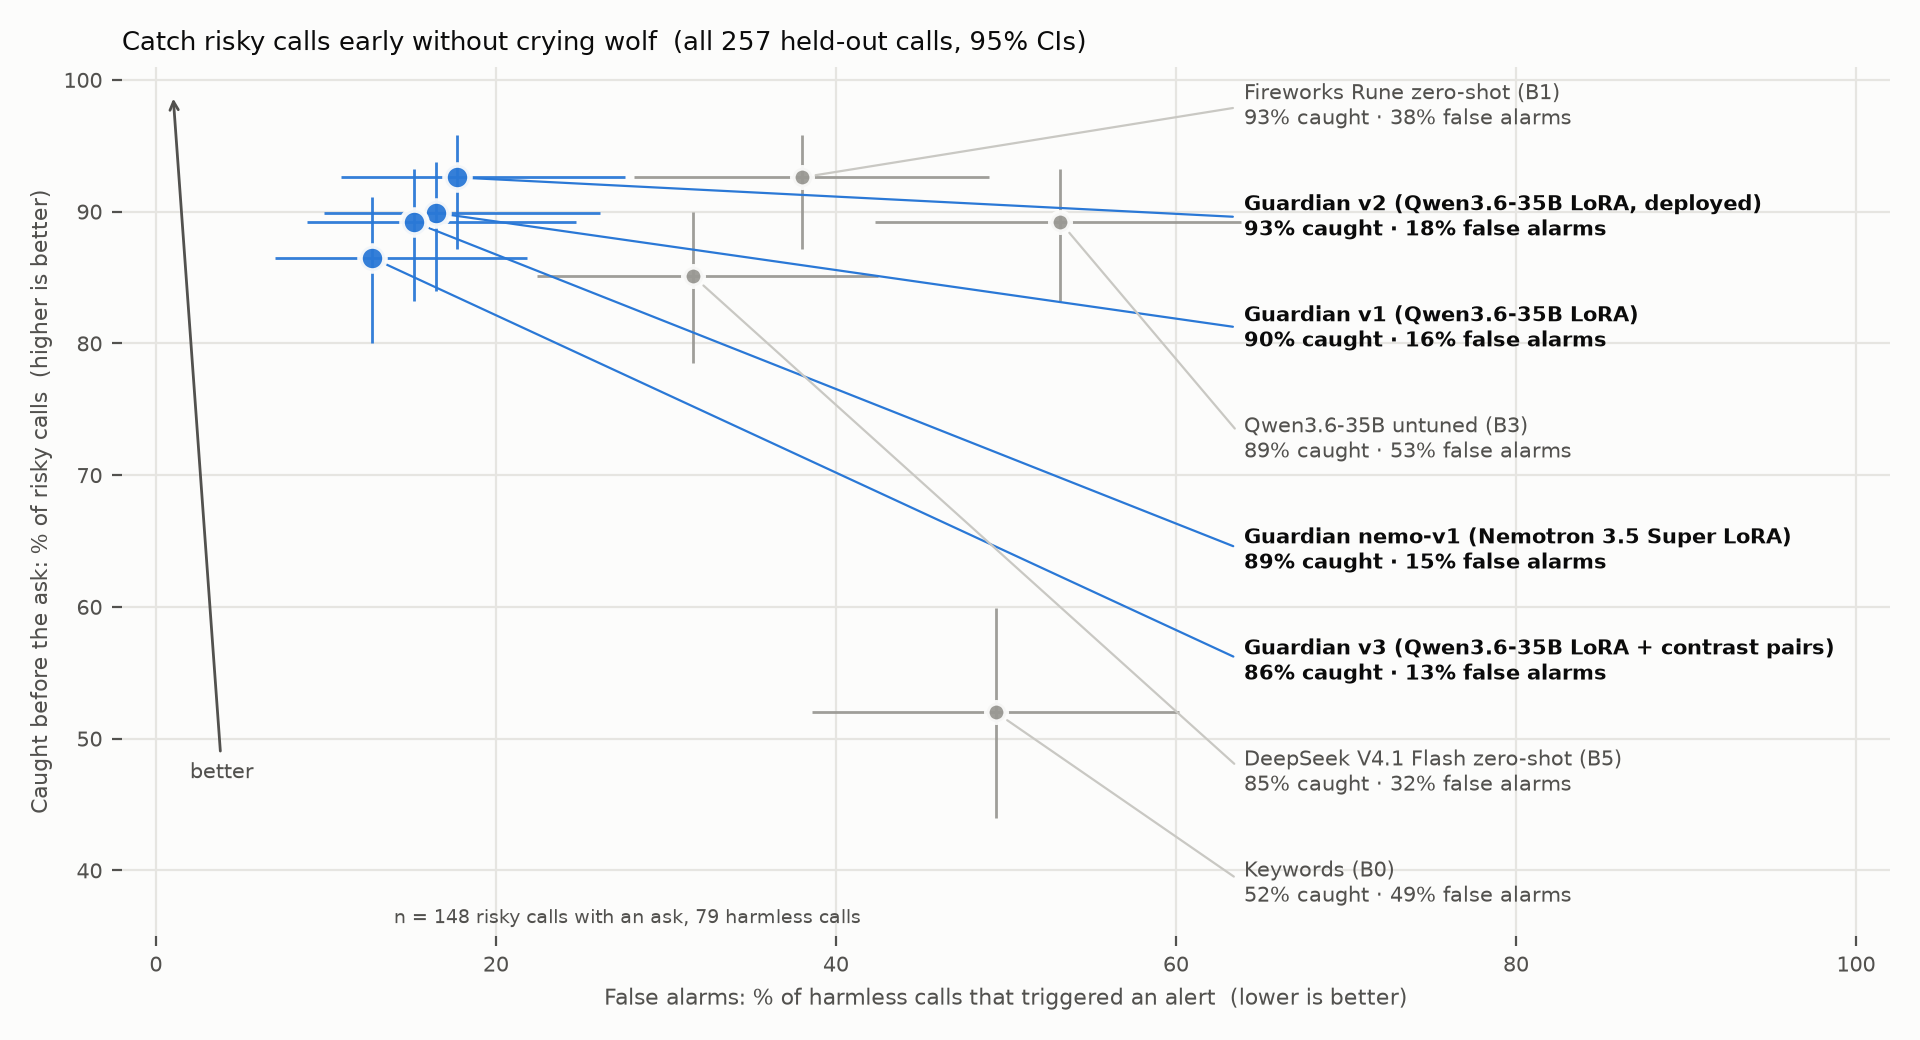
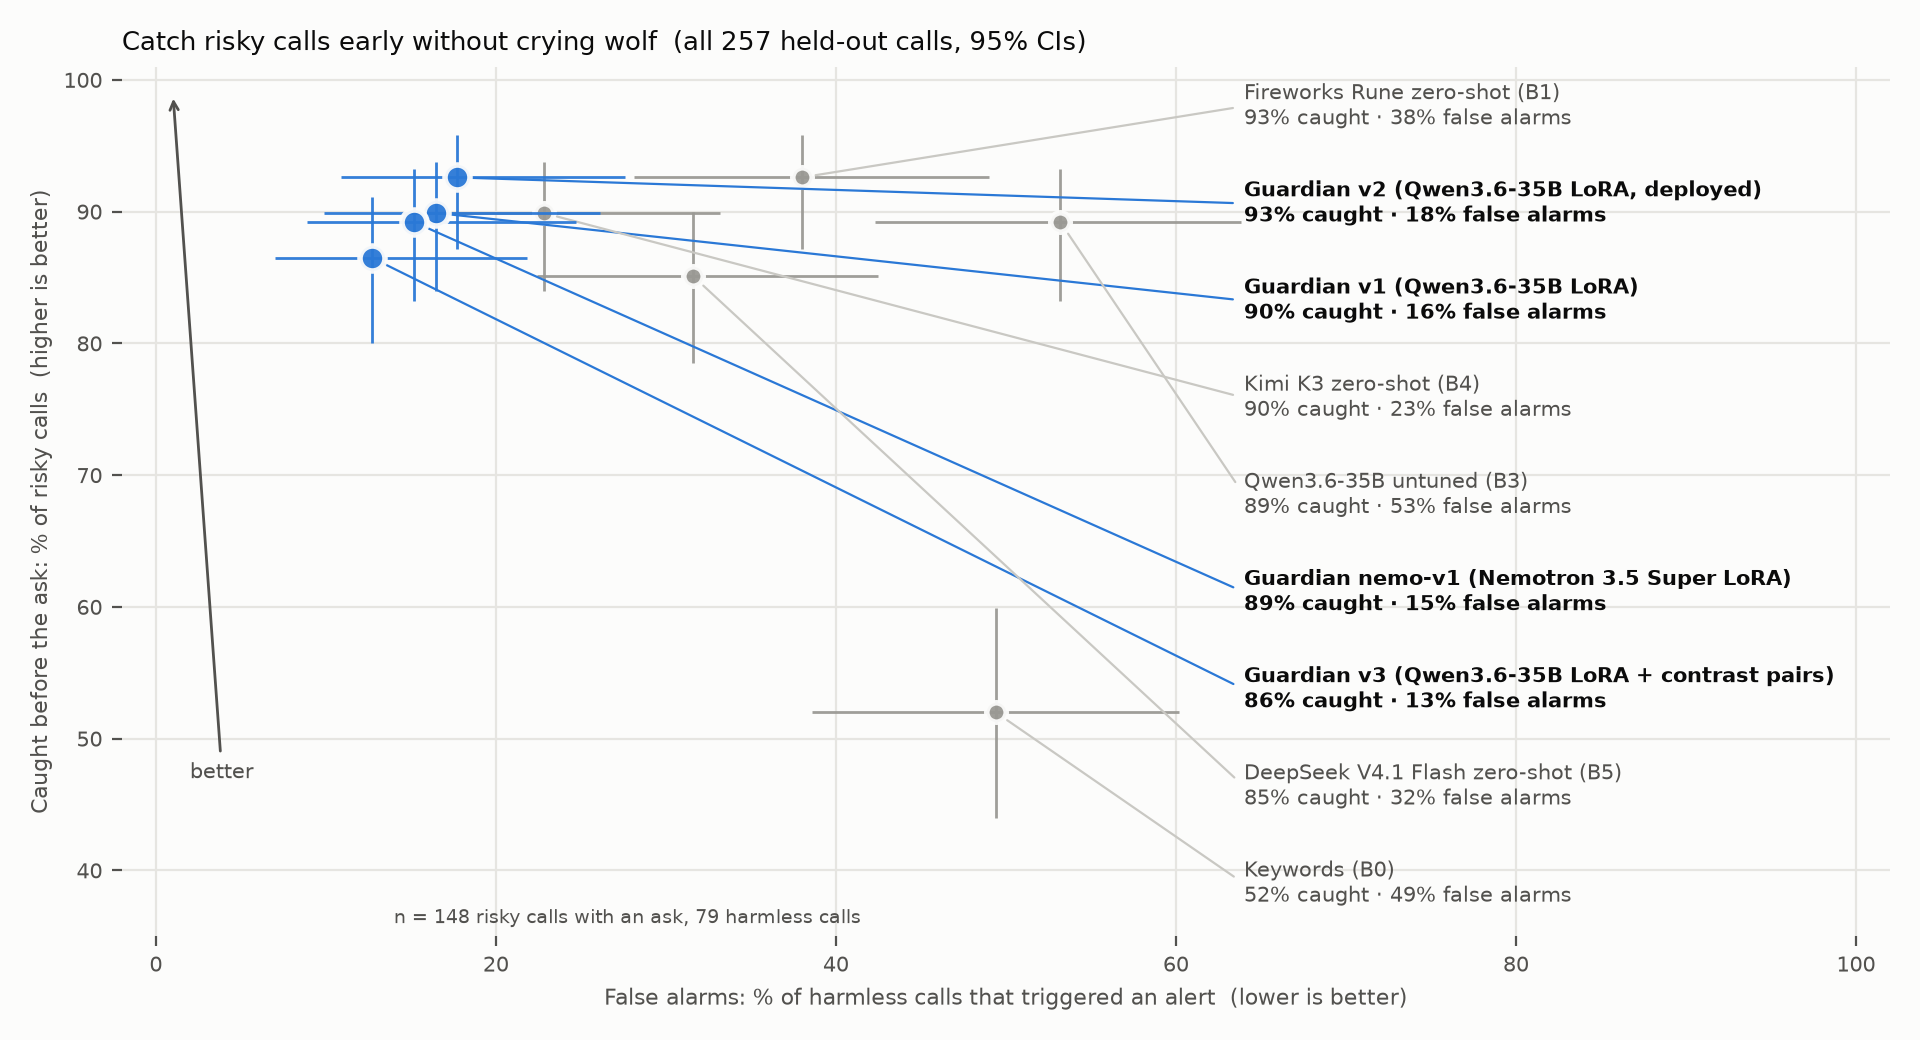
Score Kimi K3 on all 257 held-out calls; refresh README, table and chart
Kimi K3 zero-shot on the full held-out set: 133/148 caught before the ask, 18/79 false alarms,
4/22 rule-flip pairs (was a 120-call subset). Guardian v2: 137/148, 14/79, 19/22.

diff --git a/callguard/results/RESULTS_heldout.md b/callguard/results/RESULTS_heldout.md
@@ -9,6 +9,7 @@
 | Keywords (B0) | 0.52 [0.44-0.60] n=148 | 0.73 [0.65-0.80] n=148 | 0.81 [0.75-0.86] n=178 | 0.49 [0.39-0.60] n=79 | 0.00 [0.00-0.15] n=22 | 1.00 [0.34-1.00] n=2 | 2.0 (n=122) | 0.504 (n=17) | 1.0 (n=183) | 0.0 (n=2254) | 0 (n=2254) |
 | Fireworks Rune zero-shot (B1) | 0.93 [0.87-0.96] n=148 | 0.99 [0.95-1.00] n=148 | 0.99 [0.96-1.00] n=178 | 0.38 [0.28-0.49] n=79 | 0.23 [0.10-0.43] n=22 | 1.00 [0.34-1.00] n=2 | 6.0 (n=148) | 0.517 (n=17) | - | 147.0 (n=1502) | 234 (n=1502) |
 | Qwen3.6-35B untuned (B3) | 0.89 [0.83-0.93] n=148 | 0.99 [0.96-1.00] n=148 | 0.97 [0.94-0.99] n=178 | 0.53 [0.42-0.64] n=79 | 0.14 [0.05-0.33] n=22 | 1.00 [0.34-1.00] n=2 | 5.0 (n=148) | 0.357 (n=18) | 0.946 (n=892) | 8123.0 (n=1488) | 22821 (n=1488) |
+| Kimi K3 zero-shot (B4) | 0.90 [0.84-0.94] n=148 | 0.99 [0.96-1.00] n=148 | 0.95 [0.91-0.97] n=178 | 0.23 [0.15-0.33] n=79 | 0.18 [0.07-0.39] n=22 | 1.00 [0.34-1.00] n=2 | 4.0 (n=148) | 0.673 (n=17) | 0.965 (n=1329) | 1973 (n=1803) | 4037 (n=1803) |
 | DeepSeek V4.1 Flash zero-shot (B5) | 0.85 [0.79-0.90] n=148 | 0.99 [0.96-1.00] n=148 | 0.97 [0.93-0.98] n=178 | 0.32 [0.22-0.42] n=79 | 0.14 [0.05-0.33] n=22 | 1.00 [0.34-1.00] n=2 | 4.0 (n=148) | 0.517 (n=18) | 0.994 (n=1784) | 1269 (n=1859) | 1935 (n=1859) |
 
 Latency for the guardian and the untuned Qwen (B3) is from the Fireworks Training API sampler under shared-pool contention: **not a production latency**. The serverless baselines' latency is from the normal inference API. The production latency claim waits on a dedicated deployment of the guardian.

diff --git a/callguard/README.md b/callguard/README.md
@@ -43,6 +43,7 @@ asks for the code, money, address or meet-up. Calls are scored turn by turn, exa
 | Guardian v3 (v2 + contrast pairs) | 128/148 (86%, CI 80-91) | 10/79 (13%, CI 7-22) | 18/22 (82%, CI 62-93) | 178/178 (100%, CI 98-100) |
 | Guardian nemo-v1 (Nemotron 3.5 Super LoRA) | 132/148 (89%, CI 83-93) | 12/79 (15%, CI 9-25) | 17/22 (77%, CI 57-90) | 178/178 (100%, CI 98-100) |
 | Fireworks Rune zero-shot (B1) | 137/148 (93%, CI 87-96) | 30/79 (38%, CI 28-49) | 5/22 (23%, CI 10-43) | 176/178 (99%, CI 96-100) |
+| Kimi K3 zero-shot (B4) | 133/148 (90%, CI 84-94) | 18/79 (23%, CI 15-33) | 4/22 (18%, CI 7-38) | 169/178 (95%, CI 91-97) |
 | DeepSeek V4.1 Flash zero-shot (B5) | 126/148 (85%, CI 78-90) | 25/79 (32%, CI 22-42) | 3/22 (14%, CI 5-33) | 172/178 (97%, CI 93-98) |
 | Qwen3.6-35B-A3B untuned, same prompt (B3) | 132/148 (89%, CI 83-93) | 42/79 (53%, CI 42-64) | 3/22 (14%, CI 5-33) | 173/178 (97%, CI 94-99) |
 | Keywords + PII regex (B0) | 77/148 (52%, CI 44-60) | 39/79 (49%, CI 39-60) | 0/22 (0%, CI 0-15) | 145/178 (82%, CI 75-86) |
